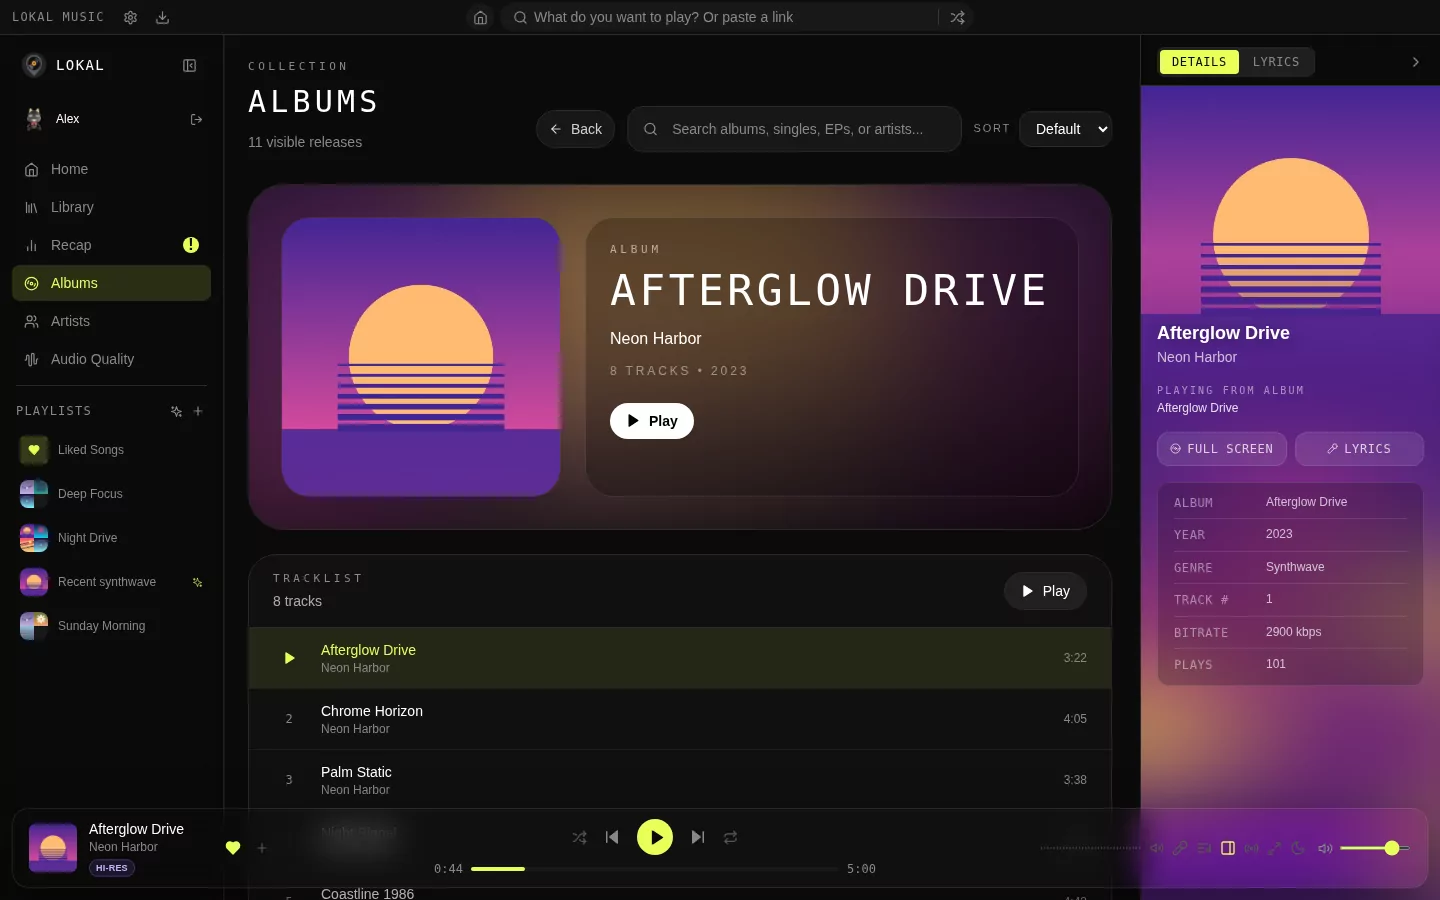
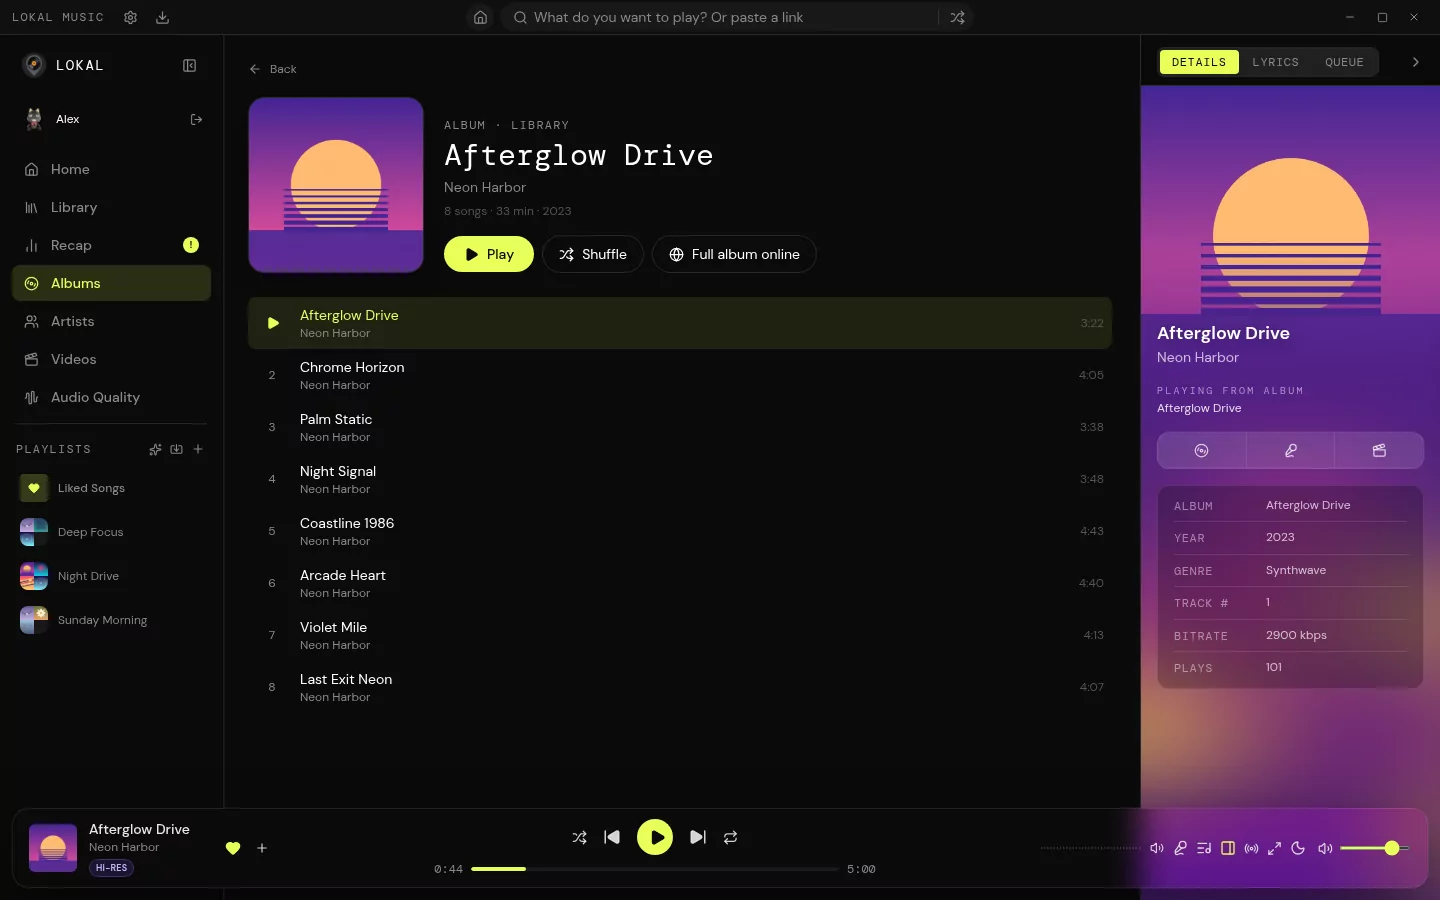
README: music videos, releases, built-in Soulseek, lossless upgrades and more
Brings the README up to date with what's landed since October 5:
music videos (synced, Videos page), Releases and followed artists,
built-in Soulseek, SpotiFLAC extensions, the Downloads panel, getting
many songs in lossless at once, online album and artist pages, playlist
import/link/sync, ghost songs, repairing missing downloads, the
full-screen player and crossfade curves.

New screenshots (demo library, made-up artists): music video, Videos,
Releases, Followed artists, Downloads, Soulseek, Get N songs in
lossless, full-screen player; Home, album and playlist pages retaken on
the current UI.

Claude-Session: https://claude.ai/code/session_01JvHuaanWfVsNCNjKEu59g3

diff --git a/README.md b/README.md
@@ -3,7 +3,7 @@
 ![convient photo of toro](https://i.imgur.com/KgjwTvk.png)
 
 
-**Your music, your files, a modern player.** Lokal is a local-first music player built with Electron and React, for people with big local libraries who want the polish of a streaming app without the subscription: word-by-word synced lyrics, listening recaps, recommendations from Last.fm or YouTube Music, smart playlists, an audio-quality checker, and one search bar that finds, streams and downloads.
+**Your music, your files, a modern player.** Lokal is a local-first music player built with Electron and React, for people with big local libraries who want the polish of a streaming app without the subscription: word-by-word synced lyrics, official music videos synced to your files, new releases from the artists you follow, listening recaps, recommendations from Last.fm or YouTube Music, smart playlists, an audio-quality checker, and one search bar that finds, streams and downloads.
 
 ![Lokal Music](https://img.shields.io/badge/version-6.6.0-blue) ![Electron](https://img.shields.io/badge/Electron-latest-47848F) ![React](https://img.shields.io/badge/React-19-61DAFB) ![License](https://img.shields.io/badge/license-MIT-green) [![Discord](https://img.shields.io/badge/Discord-7289DA?logo=discord&logoColor=white)](https://discord.gg/Wv3zfpG6UT)
 
@@ -28,13 +28,17 @@
 ## Highlights
 
 - **Synced lyrics from 9 sources**, word by word, with translation, romanization and duets
+- **Music videos**: the official video of the song playing, found for you and kept in time with *your* file
+- **New releases** from the artists you follow, with your follows imported from Spotify or Apple Music
 - **One search bar** for your library, YouTube Music, SoundCloud, Soulseek and addons: stream, save or paste a link to download
+- **Built-in Soulseek**: sign in with a username and password, nothing else to install
 - **Listening recaps** for every week, month and year, with a story you can tap through
-- **Audio quality checker** that sorts your files into Hi-res, Lossless, High and Low, and spots fake FLACs
+- **Audio quality checker** that sorts your files into Hi-res, Lossless, High and Low, spots fake FLACs, and upgrades a whole selection to lossless at once
 - **Discovery, Mix and Radio** from your Last.fm or YouTube Music account, played from your library first, then from YouTube Music, SoundCloud or your addons
 - **Smart playlists** that fill themselves from rules, and **share cards** for playlists, artists and recaps
 - **Mixes, playlists and stats** built from your own listening history
 - **Full-screen player** with moving canvas covers, a colour backdrop, a glass player bar, a mini player and crossfade
+- **Playlists that keep up**: import from a link, a file or a pasted list, and link one to Spotify, Tidal, Apple Music or Qobuz to pull in what's added there
 - **Account connections** for Last.fm, ListenBrainz, YouTube Music and Discord, plus a phone remote
 
 ---
@@ -62,6 +66,25 @@ Lyrics light up **word by word** (or syllable by syllable) like Apple Music, in 
 
 ---
 
+## Music Videos
+
+![The official music video of the playing song, full screen, with the player controls and the video sync control](docs/screenshots/music-video.webp)
+
+Press the 🎬 button in the side panel (or in full screen) and the song's **official music video** plays, **in time with your own file**: Lokal listens to the video and to your song and lines them up, intros, skits and longer edits included. Your audio keeps playing; the video only adds the picture.
+
+- **Only the real one:** the video must come from the artist and be the same song: no lyric videos, live cuts, covers, "visualizers" or still-image uploads (it checks that the picture actually moves).
+- **Versions:** a remix or radio edit with no video of its own gets the original's video.
+- **Video sync:** nudge the timing with − / + if it's ever off; Lokal remembers it for that video.
+- **Around the picture:** when the video doesn't fill the screen, the bars continue its own colours instead of black.
+- **Mini player:** keep the video playing in a small window while you use the rest of the app.
+- **Music Video Quality** (Settings → Playback) caps the resolution, to save data or start faster.
+
+| Your music videos | |
+|---|---|
+| ![The Videos page: a grid of music videos from the library, some saved and downloaded](docs/screenshots/videos.webp) | **Videos** (sidebar) lists every music video found for your library. Play them back to back, **save** the ones you like, or **download** them to your Videos folder to watch offline. *Find videos for my library* looks up the video of every song in one go. |
+
+---
+
 ## Search, Stream and Download in One Place
 
 | Search everything | Paste a link |
@@ -74,13 +97,29 @@ The search bar at the top covers your own library, then songs that aren't in it 
 - **Playlists and channels** from YouTube Music, downloadable whole.
 - **Paste a link** (YouTube, SoundCloud, Bandcamp and anything else yt-dlp supports) and press Enter to download a song, an album or a whole playlist.
 - **Downloads land in your library as they finish**, tagged, with a square cover and lyrics. No rescan needed. Choose the format (Original, MP3, M4A or Opus) in Settings → Library.
-- **The Downloads button** (top left, next to Settings) shows the queue and the playlists you've downloaded.
+- **The Downloads button** (top left, next to Settings) shows the queue, the playlists you've downloaded, and library jobs (artist info, music videos) under **Others**. A download that fails says why in plain words ("TIDAL is limiting requests for now"), with the full message one click away (ⓘ). Downloads from addons are paced gently, two at a time per source, so you hit fewer rate limits.
+
+<img src="docs/screenshots/downloads.webp" alt="The Downloads panel: a music video and a FLAC from Soulseek downloading, a failed addon download explained in plain words with the full error below, and a finished song" width="400">
 
 (*yt-dlp is not included on install; see [Downloader Setup](#downloader-setup)*)
 
-**Addons:** paste an addon's manifest URL in Settings → Addons. Lokal speaks the same addon protocol as Eclipse Music (manifest, `/search`, `/stream`), so those addons work as another source in search. Lokal ships no addons and doesn't host or vouch for any; you're responsible for the ones you add. (*[Ultramax](https://ultramax.vip/eclipse.html) and [LastWave](https://lastwaveaddons.clashprojects.qd.je/) have been tested and work; Tido requires whitelisting, so it isn't compatible.*)
+**Addons:** paste an addon's manifest URL in Settings → Addons. Lokal speaks the same addon protocol as Eclipse Music (manifest, `/search`, `/stream`, and `/album` / `/artist` pages when an addon has them), so those addons work as another source in search. It also runs **SpotiFLAC extensions**: add a repository to browse its sources, or install a `.sflx` package. Lokal ships no addons and doesn't host or vouch for any; you're responsible for the ones you add. (*[Ultramax](https://ultramax.vip/eclipse.html) and [LastWave](https://lastwaveaddons.clashprojects.qd.je/) have been tested and work; Tido requires whitelisting, so it isn't compatible.*)
 
-**Soulseek:** sign in with a Soulseek account in Settings → Integrations and search and download from Soulseek, where lossless FLAC files are common. Lokal downloads and runs the Soulseek client ([slskd](https://github.com/slskd/slskd)) for you, and updates it from the same place. Soulseek is a sharing network and most of what's on it is copyrighted, so only download what you own.
+**Soulseek:** search and download from Soulseek, where lossless FLAC files are common. Sign in with a Soulseek username and password in **Settings → Integrations → Soulseek** (a new name creates the account) and that's it: Lokal downloads the Soulseek client ([slskd](https://github.com/slskd/slskd)) once, checks it, runs it in the background on this computer only while Lokal is open, and **updates it** from the same place. Optionally share your music folder back. Soulseek is a sharing network and most of what's on it is copyrighted, so only download what you own.
+
+<img src="docs/screenshots/soulseek.webp" alt="Settings → Soulseek: username and password, share my music folder, signed in, the Soulseek client's version and Check for updates" width="720">
+
+---
+
+## New Releases
+
+![Home → Releases: the newest releases from followed artists, the two from this week marked New, with their type and date](docs/screenshots/releases.webp)
+
+**Home → Releases** lists the newest albums, EPs and singles of the artists you follow, newest first, marked **New** for their first week. Play one, open it, or go to the artist. **Refresh** checks again and only adds what's new.
+
+| Followed artists | |
+|---|---|
+| <img src="docs/screenshots/followed.webp" alt="The Followed artists dialog: every library artist with a checkbox, a search, Unfollow all, and Import from Spotify or Apple Music" width="420"> | **You choose who to follow.** *Followed artists* lists every artist in your library with a checkbox and a search; tick them one by one, or all at once. **Import** the artists you follow on **Spotify**, or the ones in your **Apple Music** library. Artist pages have a **Follow** button, and **Artists** can show only the ones you follow. Your library artists are followed on the first run, so nothing changes until you do. |
 
 ---
 
@@ -88,7 +127,7 @@ The search bar at the top covers your own library, then songs that aren't in it 
 
 ![Discovery on Home: Fresh Finds and Quick Picks from Last.fm, each song ready to play from the library](docs/screenshots/discovery.webp)
 
-Home has four tabs: **Local** (mixes from your own library), **Discovery**, **Mix** and **History** (everything you've played in Lokal).
+Home has five tabs: **Local** (mixes from your own library), **Discovery**, **Mix**, **Releases** (above) and **History** (everything you've played in Lokal).
 
 **Discovery** shows recommendations from the account you pick at the top, **Last.fm** or **YouTube Music**:
 
@@ -143,6 +182,10 @@ Know what you're actually listening to:
 
   ![Get it in lossless: Qobuz, Bandcamp, 7digital, Discogs, AllMusic and Soulseek for one song](docs/screenshots/lossless.webp)
 
+- **Many songs at once:** select songs (a whole album, a playlist), right-click → **Get N songs in lossless…**. Each one is looked up on your addon sources and the closest lossless copy is suggested, ticked when its length matches yours. **Replace** downloads the ticked ones, and each replaces its song's file **in place**, keeping its playlists, likes and plays.
+
+  <img src="docs/screenshots/lossless-many.webp" alt="Get 7 songs in lossless: lossless matches for each song of an album, four ticked, one with a different length and one with an unknown length left for you to check" width="700">
+
 - **Pill in the player bar:** the playing song's tier shows under the artist, and hovering says what it means.
 
 ---
@@ -151,7 +194,7 @@ Know what you're actually listening to:
 
 | Library, filtered by genre | Albums |
 |---|---|
-| ![The Library filtered to Synthwave](docs/screenshots/library.webp) | ![An album page with its tracklist](docs/screenshots/album.webp) |
+| ![The Library filtered to Synthwave](docs/screenshots/library.webp) | ![An album page: compact header with Play, Shuffle and Full album online, the tracklist, and the playing song in the side panel](docs/screenshots/album.webp) |
 
 | Artists | Playlists |
 |---|---|
@@ -161,11 +204,15 @@ Know what you're actually listening to:
 
 - **Library:** your music folder indexed from the files' own tags. Drum kits, sample packs and loops are filtered out, and you can opt out if something gets flagged by mistake (*via the minimum duration*). Filter by **source** (music folder, YouTube, SoundCloud, Soulseek, addons), **genre** and **quality**, and sort by date, title, artist, plays or length.
 - **Track lists you can adjust:** pick the columns (track number, artwork, artist, source, quality, date added, duration, quick actions, drag handle) from **Columns**; the layout tightens on its own when the window gets narrow. An icon shows where a downloaded or streamed song came from (YouTube, SoundCloud, Soulseek, an addon), and playlists show each song's quality.
-- **Albums:** albums, EPs and singles are kept apart; hover a cover to play the whole release.
-- **Artists:** each artist gets a page with a **photo and bio**, fetched automatically from **Wikidata**, Deezer, TheAudioDB, MusicBrainz or Wikipedia, or set by hand. *Auto* takes bios from Wikidata first (the artist's own Wikipedia article) and photos from Deezer first. Top songs and releases are on the same page. Names like "Tyler, the Creator" stay one artist.
-- **Playlists:** create, reorder, download, and get recommendations. Import them from Spotify (Exportify), Apple Music, YouTube Music, Last.fm or a CSV/JSON/M3U file.
-- **Select several songs** with Ctrl/Cmd+click (Shift for a range) to queue, add to a playlist or delete them all at once.
-- **Duplicate detection:** a smart merge scores each copy by bitrate, artwork and metadata completeness, then keeps the best one.
+- **Albums:** albums, EPs and singles are kept apart; hover a cover to play the whole release. An album page shows its tracklist under a compact header, and **Full album online** fills in the songs you don't have (streamable, or downloadable one by one).
+- **Online album and artist pages:** a streamed song, or an artist you only have a few songs of, still opens a real album or artist page (from YouTube Music or your addons), marking what's already in your library.
+- **Artists:** each artist gets a page with a **photo and bio**, fetched automatically from **Wikidata**, Deezer, TheAudioDB, MusicBrainz or Wikipedia, or set by hand. *Auto* takes bios from Wikidata first (the artist's own Wikipedia article) and photos from Deezer first. Top songs and releases are on the same page, in sections, with a per-artist choice of release types. Names like "Tyler, the Creator" stay one artist. Switch the Artists page between **All** and **Followed**.
+- **Playlists:** create, reorder, sort by any column, search, download, and get recommendations. **Import** one from a link (YouTube, YouTube Music, SoundCloud or Bandcamp playlists and albums), a file (Exportify CSV, JSON, M3U) or a pasted list of songs; songs you don't own come in as streamable ghost songs. **Link** a playlist to one on Spotify, Tidal, Apple Music or Qobuz and **Sync** adds the songs added there since (or at every launch).
+- **Ghost songs:** songs of an imported playlist that aren't in your library yet stay in it as ghosts. They play from your sources, and the **Ghost songs** dialog finds each one and downloads them all, or the ones you pick.
+- **Repair missing downloads** (Settings → Library → Maintenance): songs whose file went missing are downloaded again from where they came from and reattached, likes and plays included.
+- **Select several songs** (or videos) with Ctrl/Cmd+click (Shift for a range) to queue, add to a playlist, upgrade to lossless or delete them all at once; the selection bar floats over the page and folds itself to fit.
+- **Duplicate detection:** a smart merge scores each copy by bitrate, artwork and metadata completeness, then keeps the best one; duplicates are removed for good (a rescan doesn't bring them back), and **Remove Duplicate Songs** cleans one playlist.
+- **Search by words:** the library matches title, artist and album together, and online results correct typos ("micheal jackson" finds Michael Jackson).
 
 ---
 
@@ -192,14 +239,17 @@ Know what you're actually listening to:
 
 ## Now Playing
 
-- **Full-screen player** with the cover, or full-screen lyrics; switch between them with one click.
+![The full-screen player: the cover with its controls on hover, the seek bar, title, artist and album over a colour backdrop](docs/screenshots/fullscreen.webp)
+
+- **Full-screen player** in the style of Apple Music: the cover with its controls, which hide when you stop moving the mouse, or full-screen lyrics; switch with one click. **Double-click the cover to like** the song. The computer doesn't go to sleep while it's open.
+- **Side panel:** the song's details, lyrics and queue, with one row of buttons for full screen, lyrics, its music video and its canvas.
 - **Canvas covers:** looping video covers from Apple Music, Tidal, community lists or Spotify Canvas (*Spotify needs your own account cookie*).
 - **Colour backdrop** taken from the cover.
 - **Glass player bar:** the player floats over the pages, which scroll on underneath it, frosted. Switch it off (or the waveform next to the volume) in Settings → Appearance → Player Bar.
 - **Audio output picker** in the player bar, to send the music to another device (headphones, speakers, an interface).
 - **Mini player** to keep the music in a corner.
 - **Sleep timer.**
-- **Crossfade** between tracks.
+- **Crossfade** between tracks, with separate fade-in and fade-out times and a logarithmic or linear curve.
 - **Queue:** play next and add to queue, with shuffle you can fully step back through.
 - **Collapsible sidebar**, down to icons only.
 
@@ -214,7 +264,7 @@ Everything is connected from **Settings → Integrations → Account Connections
 - **Last.fm:** *Sign in*, then follow the numbered steps: create an API account, paste its key and secret, your username, and *Authorize* in the browser. Lokal sends "now playing" and scrobbles (after half the track or 4 minutes); scrobbles made offline are kept and sent later. Your account also powers Discovery, Mix and Radio.
 - **ListenBrainz:** *Sign in* with your user token, for the open alternative by MetaBrainz. Same scrobbling rules, offline listens kept.
 - **YouTube Music** (desktop app): *Sign in* opens YouTube Music in its own Lokal window; use the site's Sign in button. Lokal keeps the session (restored at every start) and uses it for Discovery, your mixes and likes, and to stream songs that need an account. *Verify* checks it's still valid.
-- **Discord Rich Presence:** *Connect* to show what you're listening to. Use the built-in app, or your own from Discord's developer portal (Settings → Integrations → Discord Rich Presence).
+- **Discord Rich Presence:** *Connect* to show what you're listening to ("Listening to…", with the album cover). Use the built-in app, or your own from Discord's developer portal (Settings → Integrations → Discord Rich Presence).
 - **Scrobbling** has one switch per service (Settings → Integrations → Scrobbling), to pause it without signing out.
 - **Phone remote:** open `http://<your computer>:3421/remote` on your phone to control playback. It installs as a web app.
 - **Web mode:** run Lokal as a server and listen to your library from another device (see [Web Mode Setup](#web-mode-setup)).
@@ -326,7 +376,7 @@ src/              React frontend
 - [Framer Motion](https://www.framer.com/motion/)
 - [Tailwind CSS](https://tailwindcss.com/)
 - [yt-dlp](https://github.com/yt-dlp/yt-dlp)
-- [slskd](https://github.com/slskd/slskd)
+- [slskd](https://github.com/slskd/slskd), run by Lokal for Soulseek
 - Lyrics: [LRCLIB](https://lrclib.net/), BiniLyrics, BetterLyrics, LyricsPlus, Unison, KuGou and lyrics.ovh
 - Artist info: [Wikidata](https://www.wikidata.org/), [MusicBrainz](https://musicbrainz.org/), [TheAudioDB](https://www.theaudiodb.com/), [Deezer](https://www.deezer.com/) and [Wikipedia](https://www.wikipedia.org/)
 - Recommendations: [Last.fm](https://www.last.fm/) and [YouTube Music](https://music.youtube.com/)
@@ -351,7 +401,7 @@ Everyone with these roles signs in to GitHub with two-factor authentication.
 Lokal has no accounts, analytics or telemetry. Your library, listening history and settings stay on your computer. It only connects to other services for the features that need them:
 
 - checking GitHub Releases for a new version (stable builds only);
-- looking up lyrics, artwork and artist information (the services listed above under *Built With*);
+- looking up lyrics, artwork, artist information, new releases and music videos (the services listed above under *Built With*);
 - Last.fm, ListenBrainz, YouTube Music and Discord, if you connect them;
 - searching, streaming and downloading, if you use those features.
 
